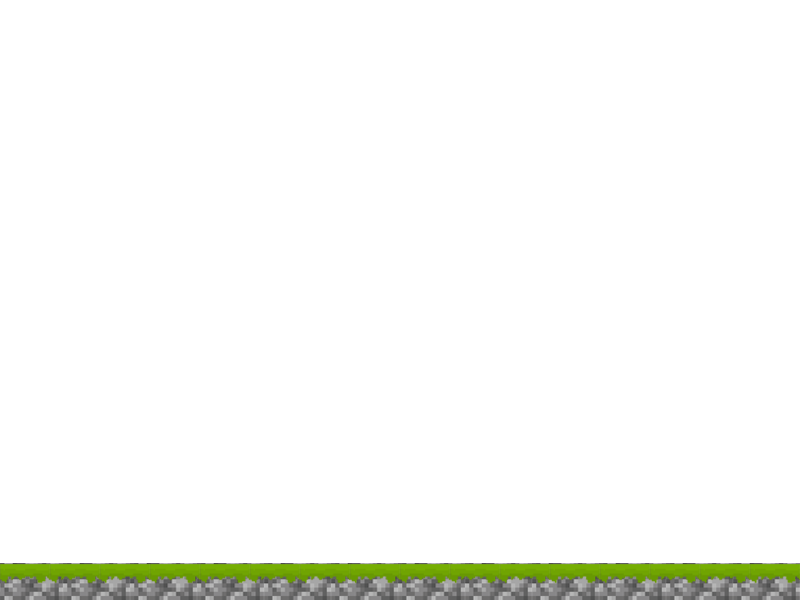
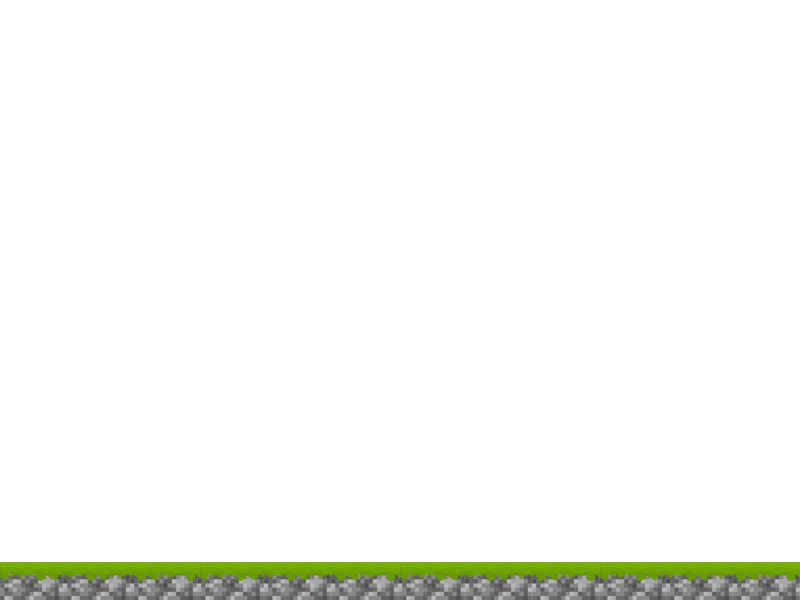
feat: ground added

Changed region(s): [[0.0, 0.93, 1.0, 0.99]]

diff --git a/FinalProject/game.py b/FinalProject/game.py
@@ -15,7 +15,7 @@ class Player(pygame.sprite.Sprite):
         self.player_jump = pygame.image.load('graphics/Player/jump.png').convert_alpha()
         
         self.image = self.player_walk[self.player_index]
-        self.rect = self.image.get_rect(midbottom = (400,550))
+        self.rect = self.image.get_rect(midbottom = (400,562))
         self.gravity = 0
          
 # Game window
@@ -28,8 +28,9 @@ htp_rect = how_to_play.get_rect(topleft = (0,0))
 game_active = False
 clock = pygame.time.Clock()
 
-# Ground
-ground = pygame.image.load('Graphics/ground.png').convert_alpha()
+# Background
+ground_surf = pygame.image.load('Graphics/ground.png').convert_alpha()
+ground_rect = ground_surf.get_rect(topleft = (0,0))
 
 # Groups
 player = pygame.sprite.GroupSingle()
@@ -53,7 +54,9 @@ while True:
                 game_active = True
         # Game window
         screen.fill('#b0ceff')
+        screen.blit(ground_surf, ground_rect)
         screen.blit(how_to_play, htp_rect)
+        
         
     if game_active:
         if event.type == pygame.KEYDOWN:
